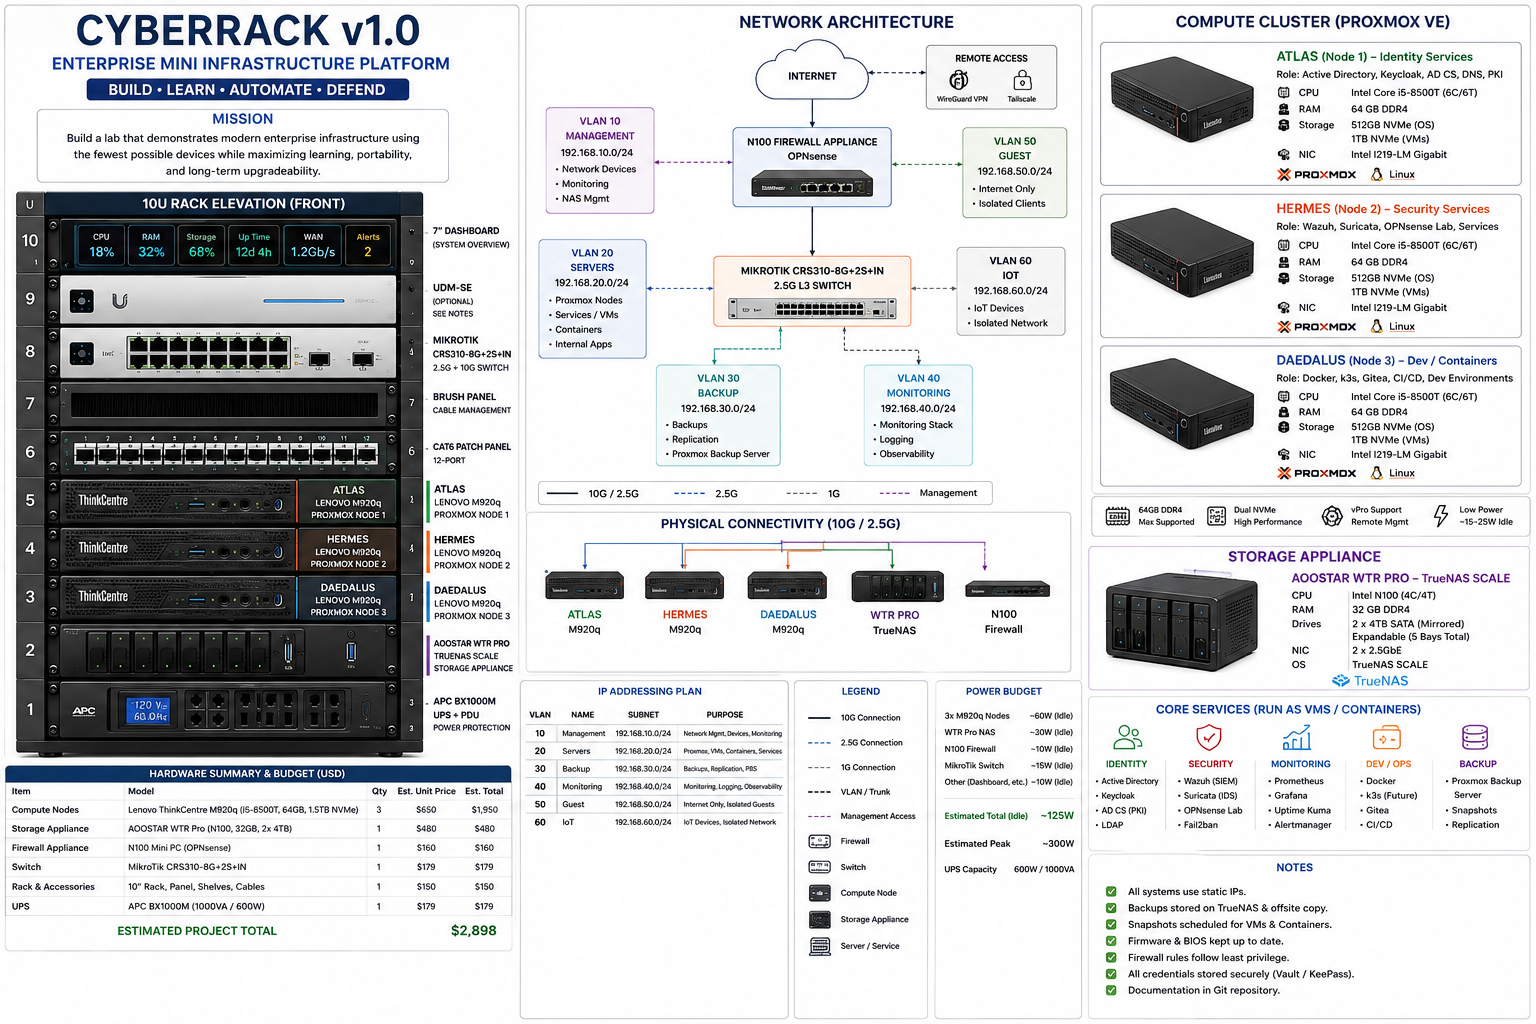
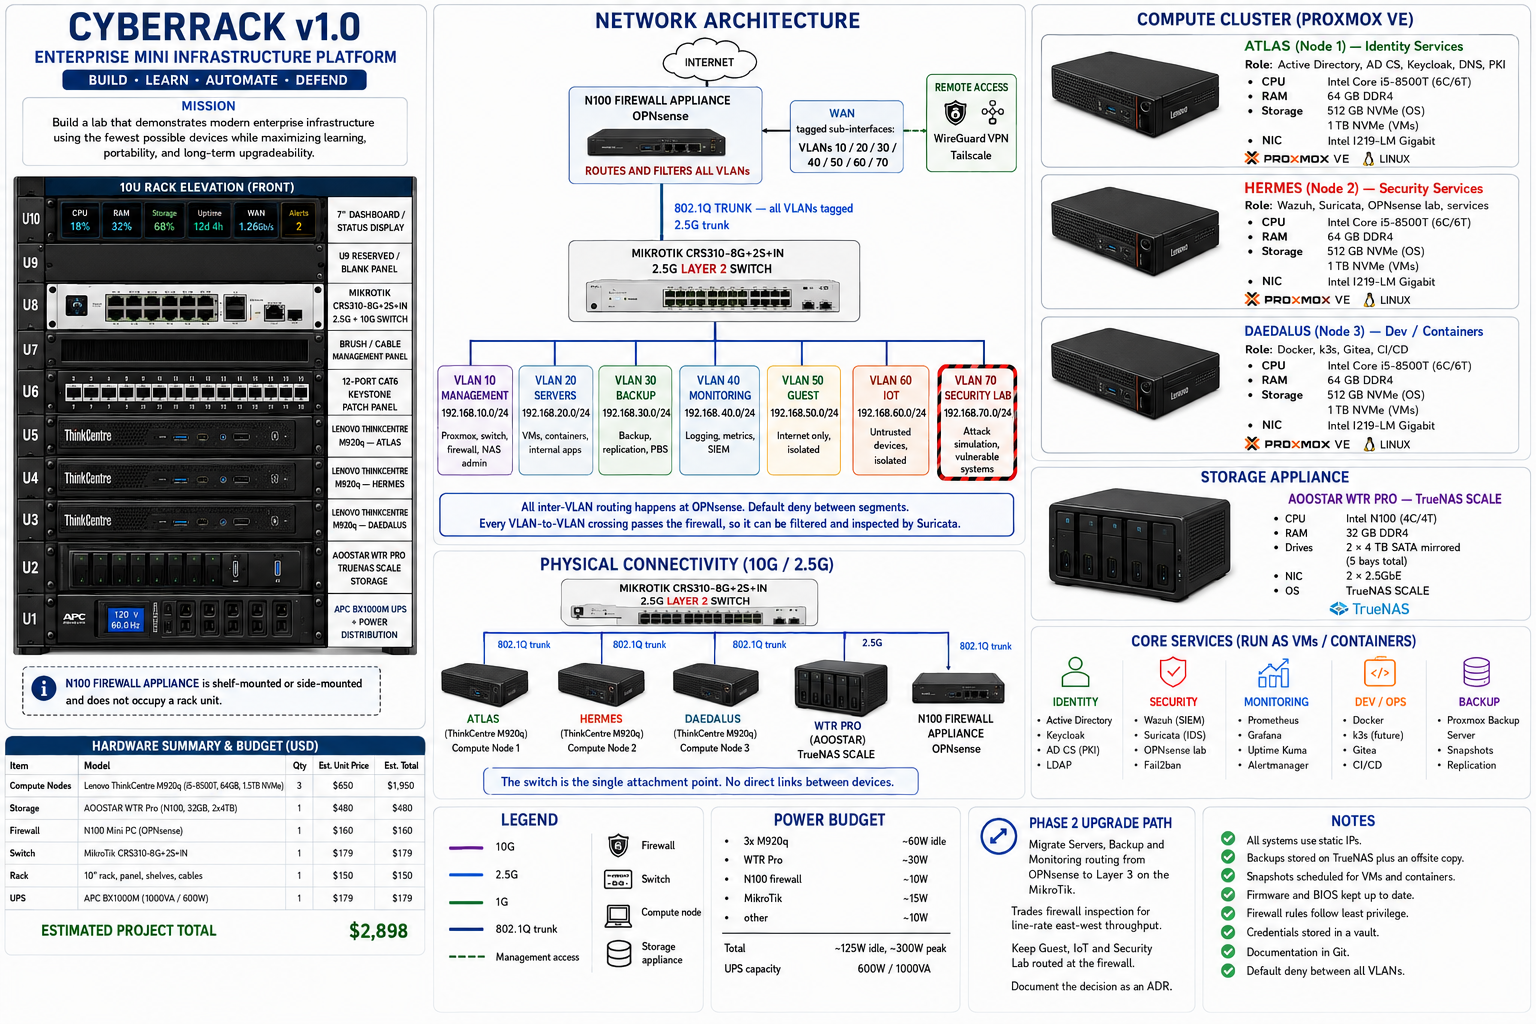
docs(cyberrack): corrected network diagram, and say who routes
Replaces the infographic with the redraw. The old one had three faults:
it labelled the MikroTik an L3 switch while the charter specifies Layer 2
with OPNsense routing, it drew VLANs 10 and 50 hanging off the firewall
and the rest off the switch as though there were two paths, and it omitted
VLAN 70 Security Lab entirely, which is the segment that matters most to
this audience and which the build page already listed.

The new diagram shows one 802.1Q trunk carrying all seven VLANs tagged
from a Layer 2 switch to a firewall that holds a sub-interface per VLAN,
every device attaching to the switch and nothing else, and VLAN 70 marked
as the isolated vulnerable segment. The optional UDM-SE is gone from the
rack elevation; two gateway devices was the deeper reason the routing
story was unclear.

Build page gains the part the diagram cannot state: OPNsense routes
everything, that caps east-west throughput at what an N100 can handle, and
the reason to accept it is that every VLAN crossing passes something that
can filter and inspect it. Says plainly this is an SMB pattern rather than
a large-enterprise one, since real enterprises route east-west on Layer 3
switches and reserve firewalls for trust boundaries.

Adds the phase 2 upgrade path: move Servers, Backup and Monitoring to
Layer 3 on the switch, keep Guest, IoT and Security Lab at the firewall.
Teaches SVIs, static routes between two routing devices, and asymmetric
[…]

diff --git a/cyberrack/03-build.md b/cyberrack/03-build.md
@@ -9,7 +9,7 @@ This is the whole design on one page. The [charter](./charter) has the
 reasoning in full; this is the specification and what each part is there
 to teach.
 
-[![CyberRack v1.0: rack elevation, network architecture, compute cluster, storage appliance, VLAN plan, power budget and hardware summary](/img/cyberrack-v1.png)](/img/cyberrack-v1.png)
+[![CyberRack v1.0: 10U rack elevation, network architecture showing an OPNsense firewall routing all seven VLANs over a single 802.1Q trunk to a Layer 2 MikroTik switch, a three-node Proxmox compute cluster, TrueNAS storage appliance, physical connectivity, VLAN and IP plan, power budget and hardware costs](/img/cyberrack-v1.png)](/img/cyberrack-v1.png)
 
 *The diagram is dense. Open it in a new tab for a readable version; it's
 designed to be looked at large rather than squinted at on a phone.*
@@ -89,6 +89,32 @@ Deliberately vulnerable machines belong on a segment that cannot reach
 anything you care about, and building that separation yourself is a
 better lesson than reading about it.
 
+### Who does the routing, and why it matters
+
+**OPNsense routes every VLAN. The MikroTik is a Layer 2 switch.**
+
+Physically there is one 802.1Q trunk between them carrying all seven
+VLANs tagged, and the firewall holds a sub-interface for each. Every
+device in the rack attaches to the switch and nothing attaches to anything
+else.
+
+That arrangement is deliberate, and it costs you something. All traffic
+between VLANs has to travel up to the firewall and back down, which caps
+east-west throughput at what a small N100 box can route. A Layer 3 switch
+would move that traffic at line rate and never bother the firewall.
+
+The reason to accept the cost: **every VLAN-to-VLAN crossing passes
+through a device that can filter and inspect it.** Suricata sees it,
+firewall policy applies to it, and the logs record it. In a lab built to
+practise segmentation and detection, traffic that silently bypasses the
+firewall is the opposite of what you want.
+
+Be aware this is an SMB pattern rather than a large-enterprise one. Real
+enterprises route east-west on Layer 3 switches and reserve firewalls for
+trust boundaries. You'll meet that design, and the [phase 2 upgrade
+path](#phase-2-move-some-routing-to-the-switch) below is how to build your
+way to it deliberately.
+
 ## What each choice teaches
 
 This is the column that justifies the spend. Nothing is here because it
@@ -123,6 +149,36 @@ list. The choices most worth reconsidering for your own situation:
   tidiness and portability, not capability.
 - **The UPS.** The one I would not skip, because it protects the storage
   that everything else depends on.
+
+## Phase 2: move some routing to the switch
+
+Once v1.0 works and you understand it, this is the upgrade worth doing,
+and it's a better lesson than either endpoint on its own.
+
+Migrate **Servers, Backup and Monitoring** routing from OPNsense to Layer
+3 on the MikroTik. Those three are high-volume, low-risk and all inside
+the trusted zone: backup jobs and log shipping have no business
+hairpinning through a firewall. Keep **Guest, IoT and Security Lab** at
+the firewall, because those are exactly the crossings you want inspected.
+
+What it teaches, beyond the configuration:
+
+- **Switched virtual interfaces** and routing on a switch, which is what
+  the distribution layer of a real network does
+- **Static routes** between two routing devices, and why they have to
+  agree
+- **Asymmetric routing**, which you will almost certainly cause by
+  accident the first time, and which is a genuinely common production
+  fault worth having debugged once
+- The architectural judgement itself: **where you put the Layer 3
+  boundary decides what your firewall can see**
+
+Write it up as an Architecture Decision Record, per the charter's §26.2.
+Recording why you moved the boundary, and what visibility you traded for
+throughput, is the part that turns a configuration change into experience
+you can talk about.
+
+Do not start here. The value is in feeling the difference.
 
 ## Living with it
 
